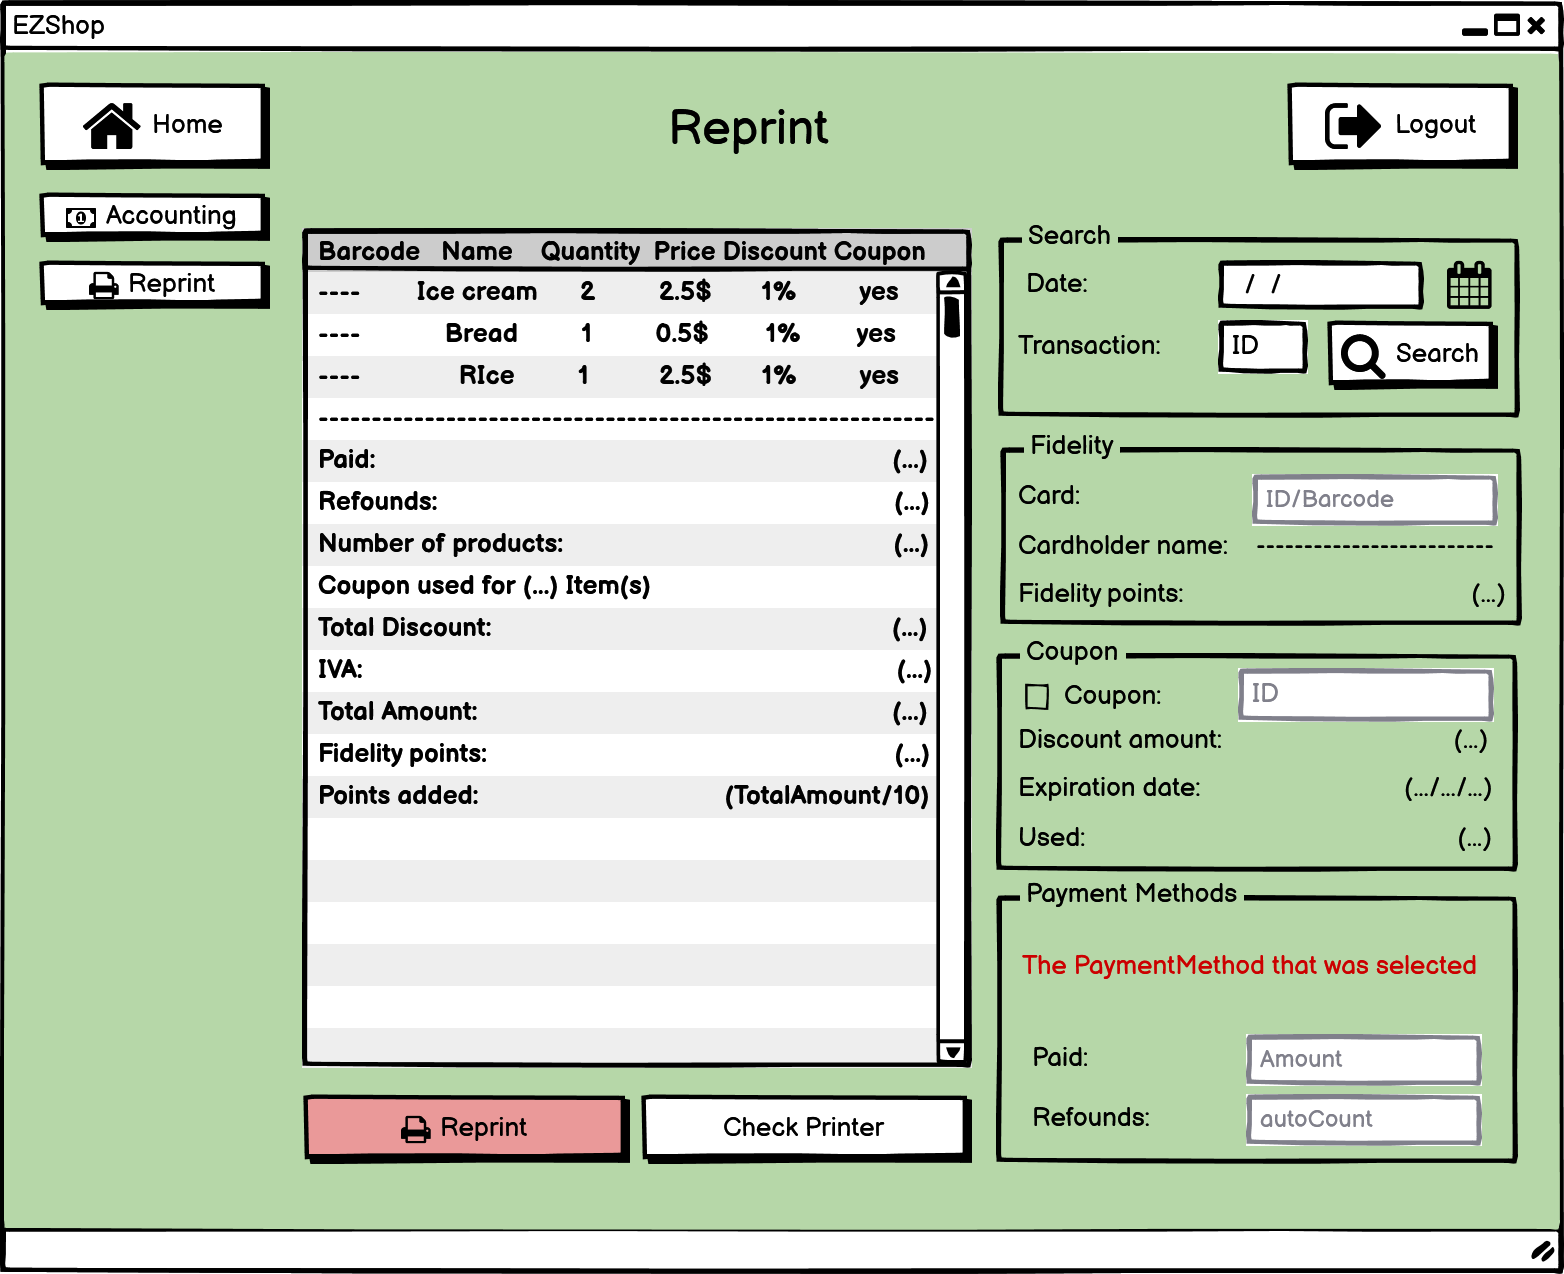
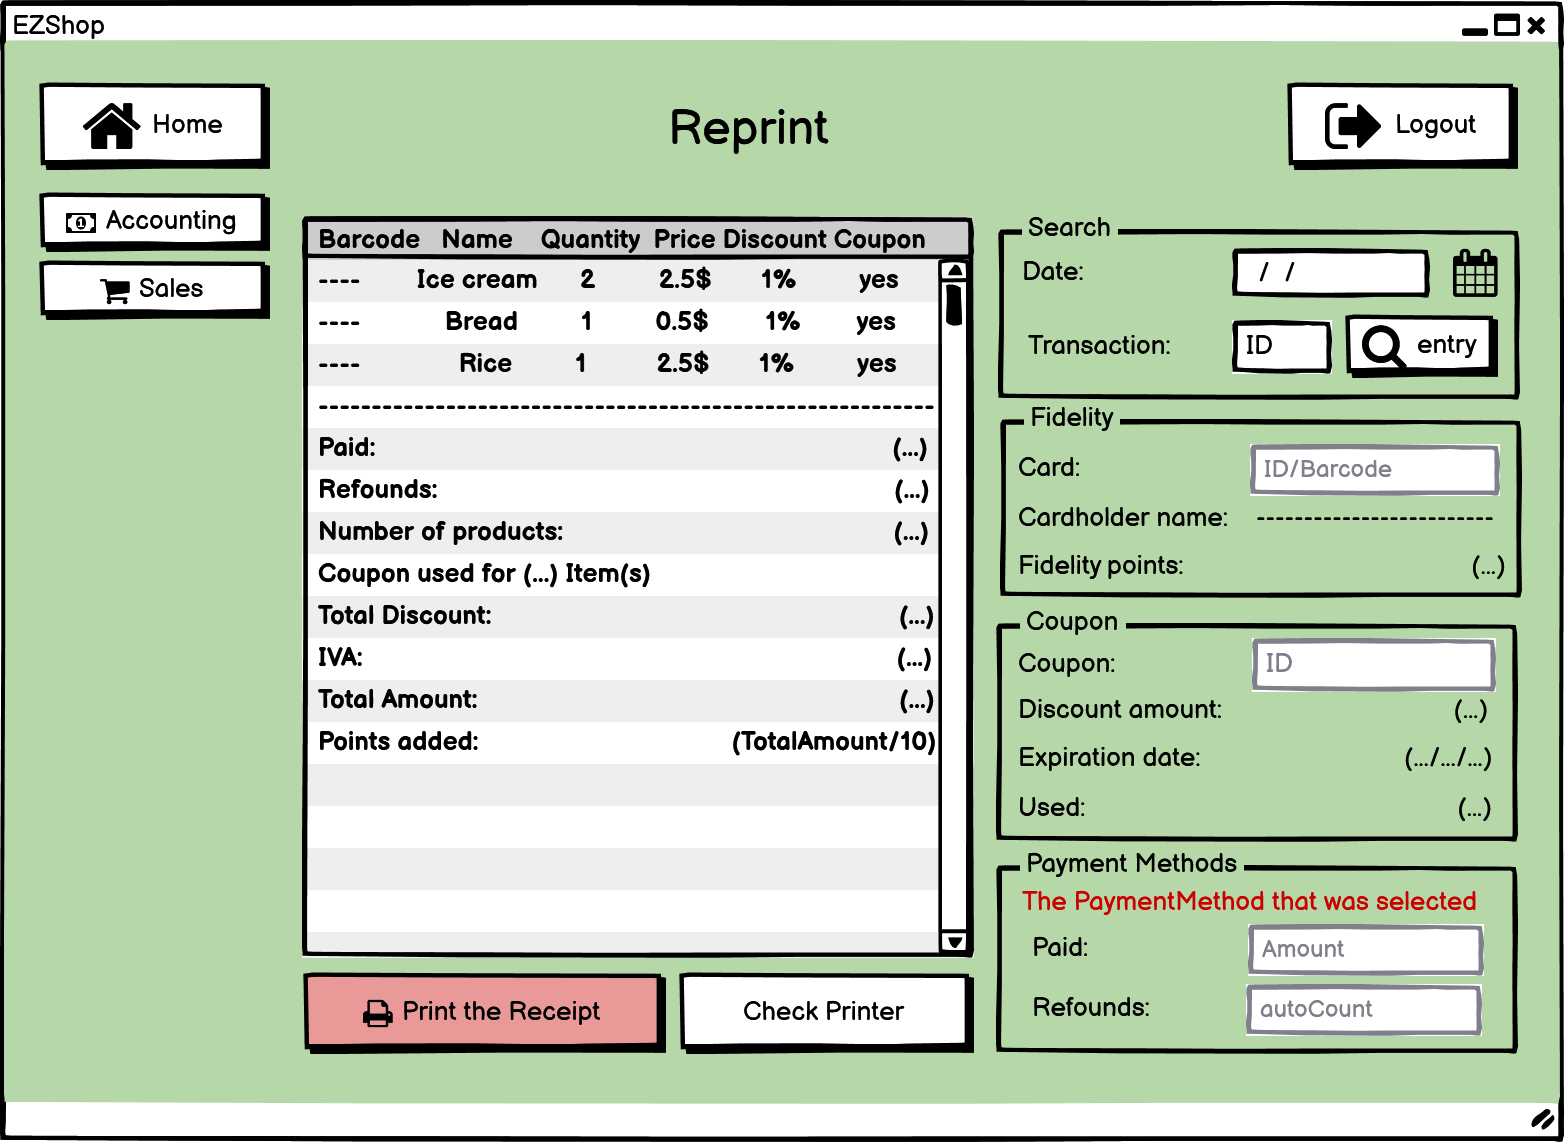
Last Editing on GUI1

Changed region(s): [[0.0, 0.0, 1.0, 1.0], [0.1841, 0.3065, 0.4297, 0.6743]]

diff --git a/Deliverables/GUIPrototype.md b/Deliverables/GUIPrototype.md
@@ -48,32 +48,60 @@ This page is the homepage of the Owner. It is similar to the Subscriber Homepage
 
 ![Selling](../GUI files/Selling.png)
 1.1  
-This page is described selling steps that **Owner** or **Employee** can use this form, Subscriber/Customer can buy products with/without coupon/discount.
 
+This page is described selling steps that **Owner** or **Employee** can use this form, Subscriber/Customer can buy products with or without coupon/discount. there are some additional buttons:
 
+1. The owner/employee can click on the **Home** button that linked to the homepage. (Page 0.3 (Page or 0.4)
 
-**Home** button linked to the homepage, **Accounting** button allows Owner/Employee to have report sales and **Reprint** button can print the previous receipt by searching. **Logout** will used to logging out.
+2. The owner/employee can click on the **Accounting** button that allows their to have report Transactions, Expenses, Pay salaries and Daily balance. (Page 14.1 or (Page 14.2)
 
-**List of Products** with information about the receipt (Paid, Refounds, Number of products, Coupon used for (...) Item(s), Total Discount, IVA, Total Amount, Fidelity Points, Points Added) also user can controls item(s) in the List by **Delete / ncrease / Decrease** buttons.
+3. The owner/employee can click on the **Reprint** button to print the previous receipt by searching. (Page 1.2)
 
-**Search field set** used to **Adding product(s)** with their name/barcode searching and quantitiy of them by clicking on the **Entry** button.
+4. The owner/employee can click on the **Logout** button will used to logging out.
 
-in the **Fidelity field set**, if **Card checkbox** was selected, ID/Barcode will read by cashier and **Cardholder name** and **Fidelity points** will be shown automatically.
+The **List of Products** with information about the receipt (Paid, Refounds, Number of products, Coupon used for (...) Item(s), Total Discount, IVA, Total Amount, Fidelity Points, Points Added) also user can controls item(s) in the List by **Delete / Increase / Decrease** buttons.
 
-**Coupon field set** if **Coupon checkbox** was selected, ID of the coupon must be put, **Discount amount** and **Expiration date** and **Used** points until before by Subscriber will appear.
+The **Search field set** used to **Adding product(s)** with their name/barcode searching and quantitiy of them by clicking on the **Entry** button.
 
-in the **Payment Methods field set** if **Pay in Cash** was selected, The amount of **Paid** must be insert and **Refounds** must be automaticaly count =(PaidAmount-TotalAmount)
+In the **Fidelity field set**, if **Card checkbox** was selected, ID/Barcode will read by cashier and **Cardholder name** and **Fidelity points** will be shown automatically.
+
+The **Coupon field set** if **Coupon checkbox** was selected, ID of the coupon must be put, **Discount amount** and **Expiration date** and **Used** points until before by Subscriber will appear.
+
+In the **Payment Methods field set** if **Pay in Cash** was selected, The amount of **Paid** must be insert and **Refounds** must be automaticaly count =(PaidAmount-TotalAmount)
 
 Then **Points added = (TotalAmount/10) will automatically generating when thr Total Amount were equal and greater than 10
+
+Also there is a Chech Printer button that can open the printer queue in the Windows.
 
 At the end and after inserting / scanning Barcode(s), if the Subscriber / Customer(s) paid theirs and if employee clicked on the submite button, the receipt will be printable by **Print the Receipt button**
 
 ##
 ![Reprint](../GUI files/Reprint.png)
 1.2  
-This page is described Reprint steps that **Employee** can only print again previous receipt, Products can not modifying nothing. 
 
-**Home** button linked to the homepage, **Accounting** button allows Owner/Employee to have report sales, **Reprint** button can print the previous receipt by searching, 
+This page is described print again the previous receipt that **Owner** or **Employee** can use this form, No information can be edited. there are some additional buttons:
+
+1. The owner/employee can click on the **Home** button that linked to the homepage. (Page 0.3 (Page or 0.4)
+
+2. The owner/employee can click on the **Accounting** button that allows their to have report Transactions, Expenses, Pay salaries and Daily balance. (Page 14.1 or (Page 14.2)
+
+3. The owner/employee can click on the **Sales** button to back to the selling produts (Page 1.1)
+
+4. The owner/employee can click on the **Logout** button will used to logging out.
+
+The **List of Products** with information about the receipt (Paid, Refounds, Number of products, Coupon used for (...) Item(s), Total Discount, IVA, Total Amount, Fidelity Points, Points Added) that they never can edited.
+
+The **Search field set** used to searching product(s)** with their Date or Transaction ID by clicking on the **Search** button.
+
+In the **Fidelity field set**, all this information **ID/Barcode, Cardholder name, Fidelity points** will appear automatically when Transaction has been being searched that they never can edited.
+
+In the **Coupon field set** all this information **ID, Discount amount, Expiration date, Used** points until before by Subscriber will appear, they never can edited.
+
+In the **Payment Methods field set** Payment statement will be shown that here we can see information like **Paid, Refounds** which is counted automatically = (PaidAmount-TotalAmount)
+
+Also there is a Chech Printer button that can open the printer queue in the Windows.
+
+At the end and after Searching by Date or Transaction ID, if the Owner or Employee had clicked on Print the Receipt button, the receipt will be print again.
 
 ## 2 Waring on low stock, Buy product
 
